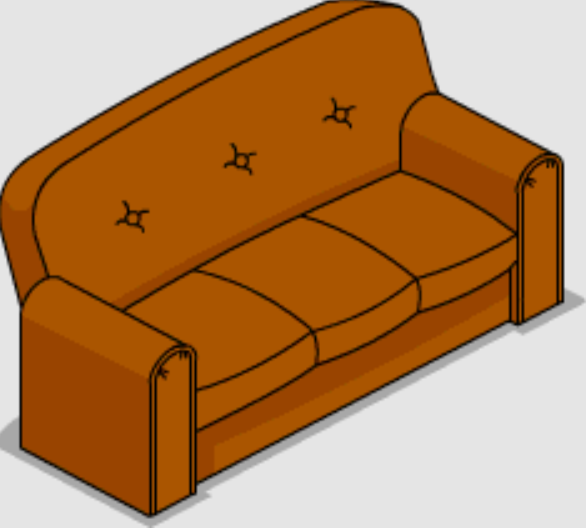
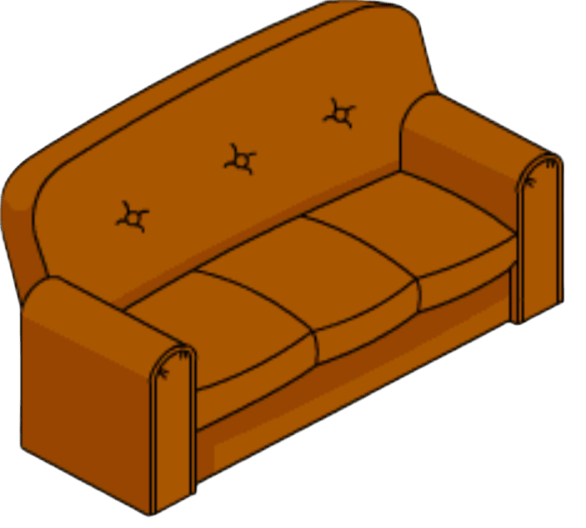
V6

diff --git a/style.css b/style.css
@@ -1,1 +1,5 @@
-@import url('https://fonts.googleapis.com/css2?family=Bangers&family=Nunito:wght@500;700;900&display=swap');:root{--ink:#181818;--yellow:#ffd521;--pink:#ff5faf;--blue:#15a9ef;--green:#6ecf3a;--red:#ef3340;--paper:#fffdf0}*{box-sizing:border-box}html{scroll-behavior:smooth}body{margin:0;font-family:Nunito,sans-serif;color:var(--ink);background:#fff8d4}button,input,textarea{font:inherit}.hero{position:relative;min-height:850px;overflow:hidden;display:grid;place-items:center;padding:70px 24px 190px;text-align:center;background:url('Ciel.jpg') center/cover no-repeat;border-bottom:8px solid var(--ink)}.clouds{position:absolute;top:20px;left:-5%;width:110%;opacity:.94;animation:cloud 30s linear infinite alternate}.confetti{position:absolute;inset:0;width:100%;height:100%;object-fit:cover;opacity:.55;pointer-events:none}.balloon{position:absolute;width:90px;animation:float 4s ease-in-out infinite}.b1{left:6%;top:25%}.b2{right:6%;top:12%;animation-delay:-2s}.donut{position:absolute;width:min(26vw,310px);right:2%;bottom:70px;filter:drop-shadow(8px 10px 0 #000)}.spin{animation:spin 18s linear infinite}.tv{position:absolute;width:min(28vw,300px);left:3%;bottom:20px;filter:drop-shadow(8px 10px 0 #000)}.tv-copy{position:absolute;left:calc(3% + min(5vw,58px));bottom:120px;width:min(18vw,190px);font:36px/1 Bangers;color:var(--yellow);text-shadow:3px 3px #5b2a86;transform:rotate(-2deg)}.tv-copy small{font-size:.7em}.hero-copy{position:relative;z-index:2;max-width:740px}.episode,.kicker{display:inline-block;padding:7px 14px;background:var(--pink);border:4px solid var(--ink);box-shadow:6px 6px 0 var(--ink);font-weight:900;letter-spacing:.08em;transform:rotate(-2deg)}h1,h2,h3{font-family:Bangers,cursive;letter-spacing:.04em}.hero h1{margin:25px 0 10px;font-size:clamp(4rem,11vw,8.7rem);line-height:.8;color:var(--yellow);text-shadow:6px 6px 0 var(--ink),10px 10px 0 #fff}.hero h1 em{font-style:normal;color:#fff}.hero-copy>p{font-size:1.2rem;font-weight:900;background:#fff;padding:8px 15px;border:3px solid #000;display:inline-block}.countdown{margin:18px auto;padding:15px 20px;max-width:max-content;background:var(--yellow);border:5px solid var(--ink);border-radius:20px;font-weight:900;box-shadow:8px 8px 0 var(--ink)}.cta,.admin-access a,.admin-hero a{display:inline-block;padding:15px 24px;background:var(--red);color:#fff;border:4px solid var(--ink);box-shadow:7px 7px 0 var(--ink);text-decoration:none;font-weight:900}.cta:hover,.submit:hover,.answer:hover{transform:translate(-2px,-2px);box-shadow:10px 10px 0 var(--ink)}main{max-width:1120px;margin:auto;padding:40px 20px}.comic-card{position:relative;background:var(--paper);border:5px solid var(--ink);border-radius:24px;box-shadow:12px 12px 0 var(--ink)}.welcome{display:flex;align-items:center;justify-content:space-between;padding:35px;margin-top:-90px;z-index:4}.welcome h2,.rsvp h2{font-size:clamp(2.5rem,7vw,5rem);margin:20px 0 0}.welcome p{font-size:1.1rem;font-weight:700}.boom{width:230px}.story{padding:70px 0 35px}.story>h2{text-align:center;font-size:3.2rem}.program-grid{display:grid;grid-template-columns:repeat(3,1fr);gap:25px}.program-card{border:5px solid #000;border-radius:28px;padding:25px;text-align:center;box-shadow:9px 9px 0 #000}.program-card img{width:170px;height:170px;object-fit:contain}.program-card h3{font-size:2.3rem;margin:5px}.yellow{background:var(--yellow)}.pink{background:#ff9fd0}.green{background:#a7e768}.lounge{display:grid;grid-template-columns:1fr 1.25fr;align-items:center;gap:20px;margin:50px 0;background:#ffbc69;border:5px solid #000;border-radius:30px;padding:25px;box-shadow:10px 10px 0 #000}.lounge img{width:100%}.lounge h2{font-size:3.4rem;margin:15px 0}.speech{background:#fff;border:4px solid #000;padding:10px;font-weight:900;display:inline-block}.rsvp{padding:45px;overflow:hidden}.rsvp:before{content:"";position:absolute;right:-70px;top:-80px;width:220px;height:220px;background:url('donut.png') center/contain no-repeat;opacity:.35}.answer-row{display:grid;grid-template-columns:1fr 1fr;gap:20px;margin:25px 0}.answer,.submit{border:5px solid #000;border-radius:20px;padding:19px;font-weight:900;cursor:pointer;box-shadow:7px 7px 0 #000;transition:.15s}.yes-btn{background:var(--green)}.no-btn{background:var(--pink)}.answer.active{outline:7px solid var(--yellow)}.people{margin:25px 0;padding:25px;background:#dff6ff;border:4px solid #000;border-radius:20px;text-align:center;font-weight:900}.stepper{display:flex;justify-content:center;align-items:center;gap:15px;margin:12px}.stepper button{width:52px;height:52px;border:4px solid #000;border-radius:50%;background:var(--yellow);font-weight:900;font-size:1.5rem}.stepper input{width:100px;text-align:center;border:4px solid #000;border-radius:14px;padding:10px;font-size:1.4rem;font-weight:900}.message-label{display:block;font-weight:900;margin:24px 0 8px}textarea{width:100%;min-height:130px;border:5px solid #000;border-radius:18px;padding:16px;background:#fff;font-weight:700}.submit{display:block;width:100%;margin-top:20px;background:var(--red);color:#fff}.response-message{text-align:center;font-weight:900;font-size:1.1rem}.success{color:#118a2b}.error{color:#c50000}.state{text-align:center;font-weight:900;padding:30px}.admin-access{text-align:center;margin:35px}footer{padding:30px;text-align:center;background:var(--ink);color:var(--yellow);font-family:Bangers;font-size:2rem}.admin-body{background:url('Ciel.jpg') center/cover fixed}.admin-hero{position:relative;overflow:hidden;min-height:380px;padding:55px 8%;background:linear-gradient(#18aaf0aa,#74d7ffdd);border-bottom:7px solid #000}.admin-hero>img:first-child{position:absolute;inset:0;width:100%;height:100%;object-fit:cover;opacity:.35}.admin-hero>div{position:relative;z-index:2}.admin-hero h1{font-size:clamp(4rem,9vw,7rem);line-height:.85;margin:25px 0;color:var(--yellow);text-shadow:5px 5px 0 #000}.admin-donut{position:absolute;right:7%;bottom:-40px;width:300px;filter:drop-shadow(9px 9px 0 #000)}.dashboard{max-width:1200px}.stats{display:grid;grid-template-columns:repeat(4,1fr);gap:20px;margin:-75px 0 35px;position:relative;z-index:3}.stats article{padding:25px;background:#fff;border:5px solid #000;border-radius:22px;box-shadow:8px 8px 0 #000;text-align:center}.stats b{display:block;font-family:Bangers;font-size:4rem;color:var(--red)}.stats span{font-weight:900}.dashboard-card{background:#fff;border:5px solid #000;border-radius:24px;box-shadow:10px 10px 0 #000;margin-bottom:35px;padding:28px}.dashboard-card h2{font-size:2.6rem;margin:0 0 20px}.chart-wrap{height:330px}.table-wrap{overflow:auto;border:4px solid #000;border-radius:15px}table{width:100%;min-width:760px;border-collapse:collapse}th{background:var(--yellow);font-weight:900}th,td{padding:14px;border-bottom:3px solid #000;text-align:left}.badge{padding:6px 10px;border:3px solid #000;border-radius:999px;font-weight:900}.badge.yes{background:var(--green)}.badge.no{background:var(--pink)}.badge.waiting{background:#ddd}@keyframes cloud{to{transform:translateX(5%)}}@keyframes float{50%{transform:translateY(-25px) rotate(4deg)}}@keyframes spin{to{transform:rotate(360deg)}}[hidden]{display:none!important}@media(max-width:800px){.hero{min-height:760px;padding-bottom:250px}.tv{width:210px}.tv-copy{display:none}.donut{width:190px}.welcome{display:block;text-align:center}.boom{width:160px}.program-grid{grid-template-columns:1fr}.lounge{grid-template-columns:1fr}.answer-row{grid-template-columns:1fr}.stats{grid-template-columns:1fr 1fr}.admin-donut{width:180px}.b2{display:none}}@media(max-width:520px){.hero h1{font-size:3.8rem}.hero{min-height:720px}.welcome,.rsvp{padding:24px}.stats{grid-template-columns:1fr}.admin-hero{padding:35px 20px}.admin-donut{opacity:.45}.story>h2{font-size:2.5rem}}
+@import url('https://fonts.googleapis.com/css2?family=Bangers&family=Nunito:wght@500;700;900&display=swap');:root{--ink:#181818;--yellow:#ffd521;--pink:#ff5faf;--green:#6ecf3a;--red:#ef3340;--paper:#fffdf0}*{box-sizing:border-box}html{scroll-behavior:smooth}body{margin:0;font-family:Nunito,sans-serif;color:var(--ink);background:#fff8d4}button,input,textarea{font:inherit}h1,h2,h3{font-family:Bangers,cursive;letter-spacing:.04em}.hero{position:relative;min-height:800px;overflow:hidden;display:flex;align-items:center;padding:54px max(26px,4vw) 92px;background:url('Ciel.jpg') center/cover no-repeat;border-bottom:8px solid #000}.sky-effects{position:absolute;inset:0;overflow:hidden;pointer-events:none}.clouds{position:absolute;width:52%;opacity:.88}.cloud-a{top:2%;left:-3%;animation:driftA 26s ease-in-out infinite alternate}.cloud-b{top:18%;right:-8%;transform:scale(.75);animation:driftB 32s ease-in-out infinite alternate}.confetti{position:absolute;inset:-10%;width:120%;height:120%;object-fit:cover;opacity:.28;animation:confettiFloat 9s ease-in-out infinite alternate}.balloon{position:absolute;width:72px;filter:drop-shadow(4px 5px 0 rgba(0,0,0,.35));animation:float 4.5s ease-in-out infinite}.balloon-a{left:3%;top:15%}.balloon-b{right:3%;top:8%;animation-delay:-2s}.hero-grid{position:relative;z-index:2;width:min(1500px,100%);margin:auto;display:grid;grid-template-columns:minmax(230px,1fr) minmax(500px,1.8fr) minmax(230px,1fr);align-items:center;gap:24px}.hero-prop{position:relative;display:grid;place-items:center;min-width:0}.tv{width:min(100%,360px);filter:drop-shadow(9px 11px 0 #000);animation:propBob 5s ease-in-out infinite}.tv-copy{position:absolute;top:48%;left:50%;transform:translate(-50%,-50%) rotate(-2deg);font:clamp(24px,3vw,42px)/.9 Bangers;color:var(--yellow);text-align:center;text-shadow:3px 3px #5b2a86}.tv-copy small{font-size:.7em}.donut{width:min(100%,360px);filter:drop-shadow(9px 11px 0 #000);animation:donutBob 6s ease-in-out infinite}.pow{position:absolute;z-index:2;top:-15px;right:2%;padding:8px 13px;background:var(--yellow);border:4px solid #000;box-shadow:5px 5px 0 #000;font:28px Bangers;transform:rotate(10deg);animation:pop 2.8s ease-in-out infinite}.hero-copy{text-align:center}.episode,.kicker{display:inline-block;padding:7px 14px;background:var(--pink);border:4px solid #000;box-shadow:6px 6px 0 #000;font-weight:900;letter-spacing:.08em;transform:rotate(-2deg)}.hero h1{margin:25px 0 12px;font-size:clamp(4.4rem,8vw,8.4rem);line-height:.8;color:var(--yellow);text-shadow:6px 6px 0 #000,10px 10px 0 #fff}.hero h1 em{font-style:normal;color:#fff}.hero-copy>p{font-size:1.15rem;font-weight:900;background:#fff;padding:8px 15px;border:3px solid #000;display:inline-block}.countdown{margin:18px auto;padding:15px 20px;max-width:max-content;background:var(--yellow);border:5px solid #000;border-radius:20px;font-weight:900;box-shadow:8px 8px 0 #000}.cta,.admin-access a,.admin-hero a{display:inline-block;padding:15px 24px;background:var(--red);color:#fff;border:4px solid #000;box-shadow:7px 7px 0 #000;text-decoration:none;font-weight:900;transition:.15s}.cta:hover,.submit:hover,.answer:hover{transform:translate(-2px,-2px);box-shadow:10px 10px 0 #000}.scroll-note{position:absolute;z-index:3;bottom:20px;left:50%;transform:translateX(-50%);font-weight:900;font-size:.73rem;letter-spacing:.08em;background:#fff;padding:6px 12px;border:3px solid #000}main{max-width:1120px;margin:auto;padding:40px 20px}.comic-card{position:relative;background:var(--paper);border:5px solid #000;border-radius:24px;box-shadow:12px 12px 0 #000}.welcome{display:flex;align-items:center;justify-content:space-between;padding:35px;margin-top:-80px;z-index:4}.welcome h2,.rsvp h2{font-size:clamp(2.5rem,7vw,5rem);margin:20px 0 0}.welcome p{font-size:1.1rem;font-weight:700}.boom{width:230px;animation:pop 3s ease-in-out infinite}.story{padding:70px 0 35px}.story>h2{text-align:center;font-size:3.2rem}.program-grid{display:grid;grid-template-columns:repeat(3,1fr);gap:25px}.program-card{border:5px solid #000;border-radius:28px;padding:25px;text-align:center;box-shadow:9px 9px 0 #000;transition:.2s}.program-card:hover{transform:translateY(-8px) rotate(-1deg)}.program-card img{width:170px;height:170px;object-fit:contain}.program-card h3{font-size:2.3rem;margin:5px}.yellow{background:var(--yellow)}.pink{background:#ff9fd0}.green{background:#a7e768}.lounge{display:grid;grid-template-columns:1fr 1.25fr;align-items:center;gap:35px;margin:50px 0;background:#ffbc69;border:5px solid #000;border-radius:30px;padding:25px 38px;box-shadow:10px 10px 0 #000}.lounge img{width:100%;filter:drop-shadow(7px 8px 0 rgba(0,0,0,.35));animation:sofaRock 5s ease-in-out infinite}.lounge h2{font-size:3.4rem;margin:15px 0}.speech{background:#fff;border:4px solid #000;padding:10px;font-weight:900;display:inline-block}.rsvp{padding:45px;overflow:hidden}.rsvp:before{content:"";position:absolute;right:-70px;top:-80px;width:220px;height:220px;background:url('donut.png') center/contain no-repeat;opacity:.35}.answer-row{display:grid;grid-template-columns:1fr 1fr;gap:20px;margin:25px 0}.answer,.submit{border:5px solid #000;border-radius:20px;padding:19px;font-weight:900;cursor:pointer;box-shadow:7px 7px 0 #000;transition:.15s}.yes-btn{background:var(--green)}.no-btn{background:var(--pink)}.answer.active{outline:7px solid var(--yellow)}.people{margin:25px 0;padding:25px;background:#dff6ff;border:4px solid #000;border-radius:20px;text-align:center;font-weight:900}.stepper{display:flex;justify-content:center;align-items:center;gap:15px;margin:12px}.stepper button{width:52px;height:52px;border:4px solid #000;border-radius:50%;background:var(--yellow);font-weight:900;font-size:1.5rem}.stepper input{width:100px;text-align:center;border:4px solid #000;border-radius:14px;padding:10px;font-size:1.4rem;font-weight:900}.message-label{display:block;font-weight:900;margin:24px 0 8px}textarea{width:100%;min-height:130px;border:5px solid #000;border-radius:18px;padding:16px;background:#fff;font-weight:700}.submit{display:block;width:100%;margin-top:20px;background:var(--red);color:#fff}.response-message{text-align:center;font-weight:900;font-size:1.1rem}.success{color:#118a2b}.error{color:#c50000}.state{text-align:center;font-weight:900;padding:30px}.admin-access{text-align:center;margin:35px}footer{padding:30px;text-align:center;background:#181818;color:var(--yellow);font-family:Bangers;font-size:2rem}.admin-body{background:url('Ciel.jpg') center/cover fixed}.admin-hero{position:relative;overflow:hidden;min-height:380px;padding:55px 8%;background:linear-gradient(#18aaf0aa,#74d7ffdd);border-bottom:7px solid #000}.admin-hero>img:first-child{position:absolute;inset:0;width:100%;height:100%;object-fit:cover;opacity:.35}.admin-hero>div{position:relative;z-index:2}.admin-hero h1{font-size:clamp(4rem,9vw,7rem);line-height:.85;margin:25px 0;color:var(--yellow);text-shadow:5px 5px 0 #000}.admin-donut{position:absolute;right:7%;bottom:-40px;width:300px;filter:drop-shadow(9px 9px 0 #000);animation:donutBob 6s ease-in-out infinite}.dashboard{max-width:1200px}.stats{display:grid;grid-template-columns:repeat(4,1fr);gap:20px;margin:-75px 0 35px;position:relative;z-index:3}.stats article{padding:25px;background:#fff;border:5px solid #000;border-radius:22px;box-shadow:8px 8px 0 #000;text-align:center}.stats b{display:block;font-family:Bangers;font-size:4rem;color:var(--red)}.stats span{font-weight:900}.dashboard-card{background:#fff;border:5px solid #000;border-radius:24px;box-shadow:10px 10px 0 #000;margin-bottom:35px;padding:28px}.dashboard-card h2{font-size:2.6rem;margin:0 0 20px}.chart-wrap{height:330px}.table-wrap{overflow:auto;border:4px solid #000;border-radius:15px}table{width:100%;min-width:760px;border-collapse:collapse}th{background:var(--yellow);font-weight:900}th,td{padding:14px;border-bottom:3px solid #000;text-align:left}.badge{padding:6px 10px;border:3px solid #000;border-radius:999px;font-weight:900}.badge.yes{background:var(--green)}.badge.no{background:var(--pink)}.badge.waiting{background:#ddd}[hidden]{display:none!important}@keyframes driftA{to{transform:translateX(17%)}}@keyframes driftB{to{transform:translateX(-15%) scale(.75)}}@keyframes confettiFloat{to{transform:translateY(30px) rotate(1deg)}}@keyframes float{50%{transform:translateY(-24px) rotate(4deg)}}@keyframes propBob{50%{transform:translateY(-10px) rotate(-1deg)}}@keyframes donutBob{50%{transform:translateY(-16px) rotate(7deg)}}@keyframes pop{50%{transform:scale(1.08) rotate(-3deg)}}@keyframes sofaRock{50%{transform:translateY(-5px) rotate(-.5deg)}}
+@media(max-width:1050px){.hero{min-height:760px}.hero-grid{grid-template-columns:minmax(180px,.8fr) minmax(430px,1.6fr) minmax(180px,.8fr);gap:12px}.tv,.donut{max-width:270px}.hero h1{font-size:clamp(4rem,8vw,6.8rem)}}
+@media(max-width:760px){.hero{min-height:900px;display:block;padding:38px 16px 58px}.hero-grid{display:flex;flex-direction:column;gap:18px}.hero-copy{order:1}.tv-wrap{order:2;position:absolute;left:5px;bottom:55px;width:46%;height:240px}.donut-wrap{order:3;position:absolute;right:5px;bottom:70px;width:43%;height:210px}.tv,.donut{width:100%;max-width:210px}.tv-copy{font-size:23px}.pow{font-size:19px;right:0}.hero h1{font-size:clamp(3.5rem,15vw,5.4rem);text-shadow:4px 4px 0 #000,7px 7px 0 #fff}.hero-copy>p{font-size:.95rem}.countdown{font-size:.84rem;padding:11px 12px}.cta{padding:12px 16px}.clouds{width:92%}.cloud-b{display:none}.confetti{opacity:.18}.balloon{width:50px}.balloon-a{top:8%;left:2%}.balloon-b{top:33%;right:1%}.scroll-note{bottom:12px;white-space:nowrap}.welcome{display:block;text-align:center;margin-top:-35px}.boom{width:145px}.program-grid{grid-template-columns:1fr}.lounge{grid-template-columns:1fr;text-align:center}.lounge img{max-width:520px;margin:auto}.answer-row{grid-template-columns:1fr}.stats{grid-template-columns:1fr 1fr}.admin-donut{width:180px}.rsvp:before{width:150px;height:150px}.story{padding-top:50px}}
+@media(max-width:430px){.hero{min-height:850px}.hero h1{font-size:3.55rem}.episode{font-size:.78rem}.tv-wrap{width:48%;bottom:58px}.donut-wrap{width:43%;bottom:82px}.tv,.donut{max-width:175px}.welcome,.rsvp{padding:24px}.stats{grid-template-columns:1fr}.admin-hero{padding:35px 20px}.admin-donut{opacity:.4}.story>h2{font-size:2.5rem}.program-card img{width:145px;height:145px}.lounge{padding:22px 18px}.lounge h2{font-size:2.7rem}}
+@media(prefers-reduced-motion:reduce){*{animation:none!important;scroll-behavior:auto!important}}

diff --git a/script.js b/script.js
@@ -1,1 +1,1 @@
-const TARGET_DATE=new Date("2027-05-15T18:30:00+02:00");let currentGuest=null;const $=id=>document.getElementById(id),form=$("rsvp-form"),count=$("guest-count"),attendance=$("attendance"),details=$("attendance-details"),msg=$("message"),feedback=$("response-message"),submit=$("submit-btn");function tick(){const d=TARGET_DATE-Date.now();if(d<=0){$("countdown").textContent="ÇA COMMENCE ! 🎉";return}const j=Math.floor(d/86400000),h=Math.floor(d%86400000/3600000),m=Math.floor(d%3600000/60000),s=Math.floor(d%60000/1000);$("countdown").textContent=`PLUS QUE ${j} J · ${h} H · ${m} MIN · ${s} S`}function getToken(){const p=new URLSearchParams(location.search);return(p.get("token")||p.get("guest")||"").trim()}function fail(text){$("loading-state").hidden=true;$("unknown-state").hidden=false;form.hidden=true;$("guest-status").textContent=text}function choose(a){attendance.value=a;document.querySelectorAll(".answer").forEach(b=>b.classList.toggle("active",b.dataset.answer===a));details.hidden=a!=="present";if(a!=="present")count.value=1;feedback.textContent=""}document.querySelectorAll(".answer").forEach(b=>b.onclick=()=>choose(b.dataset.answer));$("minus-btn").onclick=()=>count.value=Math.max(1,(+count.value||1)-1);$("plus-btn").onclick=()=>count.value=(+count.value||1)+1;count.onchange=()=>count.value=Math.max(1,Math.floor(+count.value||1));async function load(){const token=getToken();if(!token){fail("Ouvre ton lien personnel ou scanne ton QR code.");return}const{data,error}=await supabaseClient.from("guests").select("id,token,name").eq("token",token).maybeSingle();if(error||!data){console.error(error);fail("Invitation introuvable.");return}currentGuest=data;$("guest-name").textContent=data.name;$("guest-status").textContent="Tu es officiellement au casting de la soirée.";const old=await supabaseClient.from("responses").select("attendance,guest_count,message").eq("guest_id",data.id).maybeSingle();if(old.data){choose(old.data.attendance?"present":"absent");count.value=old.data.guest_count||1;msg.value=old.data.message||"";feedback.textContent="Une réponse existe déjà. Tu peux la modifier."}$("loading-state").hidden=true;form.hidden=false}form.onsubmit=async e=>{e.preventDefault();if(!attendance.value){feedback.textContent="Choisis d’abord OUI ou NON.";feedback.className="response-message error";return}submit.disabled=true;submit.textContent="ENVOI EN COURS…";const payload={guest_id:currentGuest.id,attendance:attendance.value==="present",guest_count:attendance.value==="present"?Math.max(1,+count.value||1):1,message:msg.value.trim()||null,responded_at:new Date().toISOString()};const{error}=await supabaseClient.from("responses").upsert(payload,{onConflict:"guest_id"});submit.disabled=false;submit.textContent="METTRE À JOUR MA RÉPONSE";if(error){console.error(error);feedback.textContent="Oups, la réponse n’a pas été enregistrée.";feedback.className="response-message error"}else{feedback.textContent="C’est enregistré ! Merci 🎉";feedback.className="response-message success"}};tick();setInterval(tick,1000);load();
+const TARGET_DATE=new Date("2027-05-15T18:30:00+02:00");let currentGuest=null;const $=id=>document.getElementById(id),form=$("rsvp-form"),count=$("guest-count"),attendance=$("attendance"),details=$("attendance-details"),msg=$("message"),feedback=$("response-message"),submit=$("submit-btn");function tick(){const d=TARGET_DATE-Date.now();if(d<=0){$("countdown").textContent="ÇA COMMENCE ! 🎉";return}const j=Math.floor(d/86400000),h=Math.floor(d%86400000/3600000),m=Math.floor(d%3600000/60000),s=Math.floor(d%60000/1000);$("countdown").textContent=`PLUS QUE ${j} J · ${h} H · ${m} MIN · ${s} S`}function token(){const p=new URLSearchParams(location.search);return(p.get("token")||p.get("guest")||"").trim()}function fail(text){$("loading-state").hidden=true;$("unknown-state").hidden=false;form.hidden=true;$("guest-status").textContent=text}function choose(a){attendance.value=a;document.querySelectorAll(".answer").forEach(b=>b.classList.toggle("active",b.dataset.answer===a));details.hidden=a!=="present";if(a!=="present")count.value=1;feedback.textContent=""}document.querySelectorAll(".answer").forEach(b=>b.onclick=()=>choose(b.dataset.answer));$("minus-btn").onclick=()=>count.value=Math.max(1,(+count.value||1)-1);$("plus-btn").onclick=()=>count.value=(+count.value||1)+1;count.onchange=()=>count.value=Math.max(1,Math.floor(+count.value||1));async function load(){const tk=token();if(!tk){fail("Ouvre ton lien personnel ou scanne ton QR code.");return}const{data,error}=await supabaseClient.from("guests").select("id,token,name").eq("token",tk).maybeSingle();if(error||!data){console.error(error);fail("Invitation introuvable.");return}currentGuest=data;$("guest-name").textContent=data.name;$("guest-status").textContent="Tu es officiellement au casting de la soirée.";const old=await supabaseClient.from("responses").select("attendance,guest_count,message").eq("guest_id",data.id).maybeSingle();if(old.data){choose(old.data.attendance?"present":"absent");count.value=old.data.guest_count||1;msg.value=old.data.message||"";feedback.textContent="Une réponse existe déjà. Tu peux la modifier."}$("loading-state").hidden=true;form.hidden=false}form.onsubmit=async e=>{e.preventDefault();if(!attendance.value){feedback.textContent="Choisis d’abord OUI ou NON.";feedback.className="response-message error";return}submit.disabled=true;submit.textContent="ENVOI EN COURS…";const payload={guest_id:currentGuest.id,attendance:attendance.value==="present",guest_count:attendance.value==="present"?Math.max(1,+count.value||1):1,message:msg.value.trim()||null,responded_at:new Date().toISOString()};const{error}=await supabaseClient.from("responses").upsert(payload,{onConflict:"guest_id"});submit.disabled=false;submit.textContent="METTRE À JOUR MA RÉPONSE";if(error){console.error(error);feedback.textContent="Oups, la réponse n’a pas été enregistrée.";feedback.className="response-message error"}else{feedback.textContent="C’est enregistré ! Merci 🎉";feedback.className="response-message success"}};tick();setInterval(tick,1000);load();

diff --git a/index.html b/index.html
@@ -1,8 +1,7 @@
 <!doctype html><html lang="fr"><head><meta charset="utf-8"><meta name="viewport" content="width=device-width,initial-scale=1"><title>Paul fête ses 30 ans !</title><link rel="stylesheet" href="style.css"></head><body>
-<header class="hero"><img class="clouds" src="Nuages.png" alt=""><img class="confetti" src="Confettis.png" alt=""><img class="balloon b1" src="ballon.png" alt=""><img class="balloon b2" src="ballon.png" alt=""><img class="donut spin" src="donut.png" alt="Donut rose cartoon"><img class="tv" src="TvV.png" alt="Télévision cartoon"><div class="tv-copy">30 ANS<br><small>DE PAUL</small></div><div class="hero-copy"><span class="episode">ÉPISODE SPÉCIAL</span><h1>PAUL FÊTE<br><em>SES 30 ANS !</em></h1><p>L’événement le plus sérieusement absurde de l’année.</p><div id="countdown" class="countdown">Chargement du générique…</div><a class="cta" href="#rsvp">JE DONNE MA RÉPONSE</a></div></header>
+<header class="hero"><div class="sky-effects"><img class="clouds cloud-a" src="Nuages.png" alt=""><img class="clouds cloud-b" src="Nuages.png" alt=""><img class="confetti" src="Confettis.png" alt=""><img class="balloon balloon-a" src="ballon.png" alt=""><img class="balloon balloon-b" src="ballon.png" alt=""></div><div class="hero-grid"><div class="hero-prop tv-wrap"><img class="tv" src="TvV.png" alt="Télévision cartoon"><div class="tv-copy">30 ANS<br><small>DE PAUL</small></div></div><div class="hero-copy"><span class="episode">ÉPISODE SPÉCIAL</span><h1>PAUL FÊTE<br><em>SES 30 ANS !</em></h1><p>L’événement le plus sérieusement absurde de l’année.</p><div id="countdown" class="countdown">Chargement du générique…</div><a class="cta" href="#rsvp">JE DONNE MA RÉPONSE</a></div><div class="hero-prop donut-wrap"><span class="pow">WOW!</span><img class="donut" src="donut.png" alt="Donut rose cartoon"></div></div><div class="scroll-note">↓ FAIS DÉFILER POUR VOIR LA SUITE ↓</div></header>
 <main><section class="welcome comic-card"><div><span class="kicker">INVITATION PERSONNELLE</span><h2>Hé, <span id="guest-name">invité(e)</span> !</h2><p id="guest-status">On vérifie ton pass pour la fête…</p></div><img src="boom.png" alt="Boom" class="boom"></section>
 <section class="story"><h2>AU PROGRAMME DE CET ÉPISODE</h2><div class="program-grid"><article class="program-card yellow"><img src="duf.png" alt="Canette cartoon"><h3>Apéro</h3><p>On trinque, on discute, on refait le monde.</p></article><article class="program-card pink"><img src="gateau.png" alt="Gâteau d'anniversaire cartoon"><h3>Gâteau</h3><p>Des bougies, du sucre et une dignité relative.</p></article><article class="program-card green"><img src="cadeaux.png" alt="Cadeaux cartoon"><h3>Surprises</h3><p>Quelques rebondissements sont au scénario.</p></article></div></section>
 <section class="lounge"><img src="canap.png" alt="Canapé cartoon"><div><span class="speech">SAMEDI 15 MAI 2027 · 18 H 30</span><h2>Le canapé t’attend.</h2><p>Adresse à préciser · Tenue festive et décontractée · Musique et soirée dansante.</p></div></section>
-<section id="rsvp" class="rsvp comic-card"><div id="loading-state" class="state">Chargement de ton invitation…</div><div id="unknown-state" class="state error" hidden><h2>Oups !</h2><p>Ce lien ne correspond à aucune invitation.</p></div><form id="rsvp-form" hidden><span class="kicker">QUESTION ULTRA IMPORTANTE</span><h2>Tu viens faire la fête ?</h2><div class="answer-row"><button type="button" class="answer yes-btn" data-answer="present">🍩 OUI, J’ARRIVE !</button><button type="button" class="answer no-btn" data-answer="absent">📺 NON, JE PASSE MON TOUR</button></div><input type="hidden" id="attendance"><div id="attendance-details" class="people" hidden><label>Combien de personnes au total ?</label><div class="stepper"><button id="minus-btn" type="button">−</button><input id="guest-count" type="number" min="1" value="1"><button id="plus-btn" type="button">+</button></div><small>Aucune limite fixée. Indique simplement le nombre réel.</small></div><label class="message-label">Un petit mot pour Paul ?</label><textarea id="message" maxlength="1000" placeholder="Écris ton message ici…"></textarea><button id="submit-btn" class="submit" type="submit">ENVOYER MA RÉPONSE</button><p id="response-message" class="response-message"></p></form></section>
-<p class="admin-access"><a href="admin.html">Accéder au centre de contrôle</a></p></main><footer>★ PAUL · SAISON 30 ★</footer>
+<section id="rsvp" class="rsvp comic-card"><div id="loading-state" class="state">Chargement de ton invitation…</div><div id="unknown-state" class="state error" hidden><h2>Oups !</h2><p>Ce lien ne correspond à aucune invitation.</p></div><form id="rsvp-form" hidden><span class="kicker">QUESTION ULTRA IMPORTANTE</span><h2>Tu viens faire la fête ?</h2><div class="answer-row"><button type="button" class="answer yes-btn" data-answer="present">🍩 OUI, J’ARRIVE !</button><button type="button" class="answer no-btn" data-answer="absent">📺 NON, JE PASSE MON TOUR</button></div><input type="hidden" id="attendance"><div id="attendance-details" class="people" hidden><label>Combien de personnes au total ?</label><div class="stepper"><button id="minus-btn" type="button">−</button><input id="guest-count" type="number" min="1" value="1"><button id="plus-btn" type="button">+</button></div><small>Aucune limite fixée. Indique simplement le nombre réel.</small></div><label class="message-label">Un petit mot pour Paul ?</label><textarea id="message" maxlength="1000" placeholder="Écris ton message ici…"></textarea><button id="submit-btn" class="submit" type="submit">ENVOYER MA RÉPONSE</button><p id="response-message" class="response-message"></p></form></section><p class="admin-access"><a href="admin.html">Accéder au centre de contrôle</a></p></main><footer>★ PAUL · SAISON 30 ★</footer>
 <script src="https://cdn.jsdelivr.net/npm/@supabase/supabase-js@2"></script><script src="supabase.js"></script><script src="script.js"></script></body></html>

diff --git a/admin.js b/admin.js
@@ -1,1 +1,1 @@
-let chart;const esc=v=>String(v??"").replace(/[&<>"']/g,c=>({"&":"&amp;","<":"&lt;",">":"&gt;",'"':"&quot;","'":"&#39;"}[c]));async function loadDashboard(){const s=document.getElementById("dashboard-status"),{data,error}=await supabaseClient.from("guests").select("id,name,responses(attendance,guest_count,message,responded_at)").order("name");if(error){console.error(error);s.textContent="Impossible de charger les réponses.";return}const items=data.map(g=>({name:g.name,response:Array.isArray(g.responses)?g.responses[0]:g.responses})),answered=items.filter(x=>x.response),present=answered.filter(x=>x.response.attendance),people=present.reduce((n,x)=>n+(+x.response.guest_count||0),0);answered.sort((a,b)=>new Date(a.response.responded_at)-new Date(b.response.responded_at));answeredEl=document.getElementById("answered");answeredEl.textContent=answered.length;document.getElementById("present").textContent=present.length;document.getElementById("people").textContent=people;document.getElementById("waiting").textContent=items.length-answered.length;s.textContent=`Dernière actualisation : ${new Date().toLocaleString("fr-FR")}`;document.getElementById("rows").innerHTML=items.map(x=>{const r=x.response;if(!r)return`<tr><td>${esc(x.name)}</td><td><span class="badge waiting">EN ATTENTE</span></td><td>—</td><td>—</td><td>—</td></tr>`;return`<tr><td>${esc(x.name)}</td><td><span class="badge ${r.attendance?"yes":"no"}">${r.attendance?"PRÉSENT":"ABSENT"}</span></td><td>${r.attendance?esc(r.guest_count):"—"}</td><td>${esc(r.message||"—")}</td><td>${new Date(r.responded_at).toLocaleString("fr-FR")}</td></tr>`}).join("");draw(answered)}function draw(a){const d={};a.forEach(x=>{const k=new Date(x.response.responded_at).toLocaleDateString("fr-FR");d[k]??={y:0,n:0};x.response.attendance?d[k].y++:d[k].n++});let y=0,n=0;const labels=Object.keys(d),ys=[],ns=[];labels.forEach(k=>{y+=d[k].y;n+=d[k].n;ys.push(y);ns.push(n)});chart?.destroy();chart=new Chart(document.getElementById("evolution-chart"),{type:"line",data:{labels,datasets:[{label:"Présents",data:ys,borderColor:"#39b54a",backgroundColor:"#39b54a",borderWidth:4,tension:.25},{label:"Absents",data:ns,borderColor:"#ef3340",backgroundColor:"#ef3340",borderWidth:4,tension:.25}]},options:{responsive:true,maintainAspectRatio:false,plugins:{legend:{labels:{font:{weight:"bold"}}}},scales:{y:{beginAtZero:true,ticks:{precision:0}}}}})}loadDashboard();setInterval(loadDashboard,60000);
+let chart;const esc=v=>String(v??"").replace(/[&<>"']/g,c=>({"&":"&amp;","<":"&lt;",">":"&gt;",'"':"&quot;","'":"&#39;"}[c]));async function loadDashboard(){const s=document.getElementById("dashboard-status"),{data,error}=await supabaseClient.from("guests").select("id,name,responses(attendance,guest_count,message,responded_at)").order("name");if(error){console.error(error);s.textContent="Impossible de charger les réponses.";return}const items=data.map(g=>({name:g.name,response:Array.isArray(g.responses)?g.responses[0]:g.responses})),answered=items.filter(x=>x.response),present=answered.filter(x=>x.response.attendance),people=present.reduce((n,x)=>n+(+x.response.guest_count||0),0);document.getElementById("answered").textContent=answered.length;document.getElementById("present").textContent=present.length;document.getElementById("people").textContent=people;document.getElementById("waiting").textContent=items.length-answered.length;s.textContent=`Dernière actualisation : ${new Date().toLocaleString("fr-FR")}`;document.getElementById("rows").innerHTML=items.map(x=>{const r=x.response;if(!r)return`<tr><td>${esc(x.name)}</td><td><span class="badge waiting">EN ATTENTE</span></td><td>—</td><td>—</td><td>—</td></tr>`;return`<tr><td>${esc(x.name)}</td><td><span class="badge ${r.attendance?"yes":"no"}">${r.attendance?"PRÉSENT":"ABSENT"}</span></td><td>${r.attendance?esc(r.guest_count):"—"}</td><td>${esc(r.message||"—")}</td><td>${new Date(r.responded_at).toLocaleString("fr-FR")}</td></tr>`}).join("");draw(answered)}function draw(a){const d={};a.sort((x,y)=>new Date(x.response.responded_at)-new Date(y.response.responded_at)).forEach(x=>{const k=new Date(x.response.responded_at).toLocaleDateString("fr-FR");d[k]??={y:0,n:0};x.response.attendance?d[k].y++:d[k].n++});let y=0,n=0;const labels=Object.keys(d),ys=[],ns=[];labels.forEach(k=>{y+=d[k].y;n+=d[k].n;ys.push(y);ns.push(n)});chart?.destroy();chart=new Chart(document.getElementById("evolution-chart"),{type:"line",data:{labels,datasets:[{label:"Présents",data:ys,borderColor:"#39b54a",backgroundColor:"#39b54a",borderWidth:4,tension:.25},{label:"Absents",data:ns,borderColor:"#ef3340",backgroundColor:"#ef3340",borderWidth:4,tension:.25}]},options:{responsive:true,maintainAspectRatio:false,scales:{y:{beginAtZero:true,ticks:{precision:0}}}}})}loadDashboard();setInterval(loadDashboard,60000);

diff --git a/README.md b/README.md
@@ -1,5 +1,5 @@
-# Anniversaire Paul V5 Cartoon
+# Anniversaire Paul V6 Cartoon Responsive
 
-Dépose tous les fichiers du ZIP à la racine du dépôt GitHub. Les images sont incluses et les noms correspondent au code.
+La V6 corrige le haut du site sur téléphone, améliore la composition PC, ajoute des effets légers et remplace le canapé.
 
-Tests : `?token=V001`, `?token=L001`, `?token=O001` et `admin.html`.
+Dépose tous les fichiers à la racine GitHub. Tests : `?token=V001`, `?token=L001`, `?token=O001`, `admin.html`.
